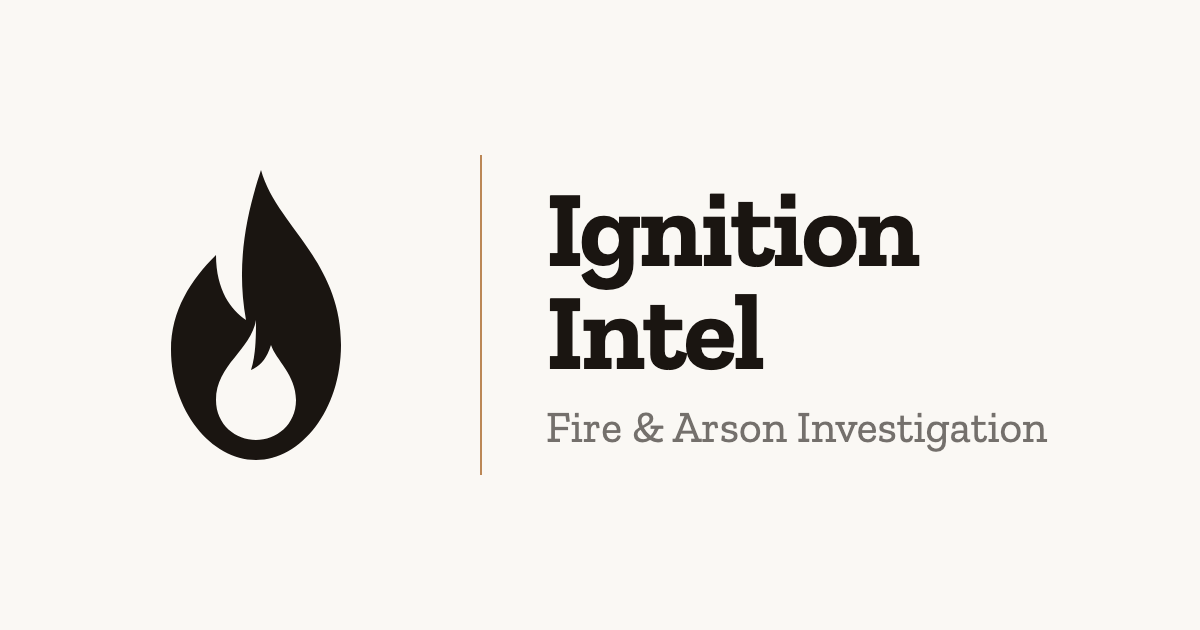
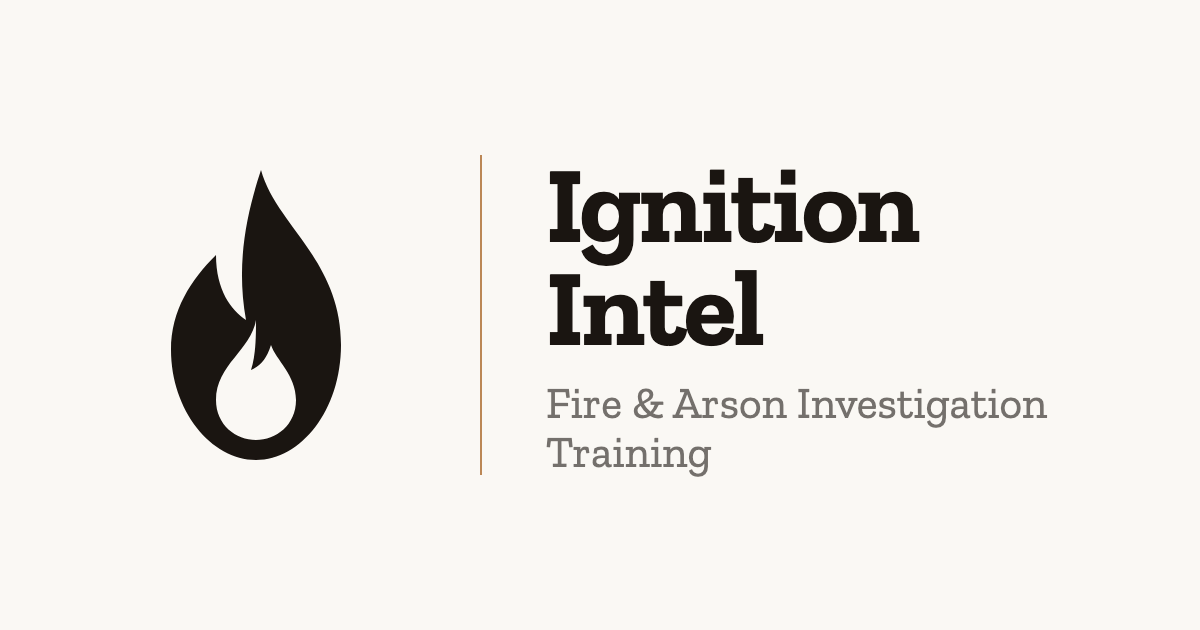
Make some tweaks to the business title

Changed region(s): [[0.4317, 0.2714, 0.8942, 0.754]]

diff --git a/site/src/util/SeoGraph.service.ts b/site/src/util/SeoGraph.service.ts
@@ -6,17 +6,17 @@ import {
   type GraphEntity,
   makeIds
 } from '@jdevalk/seo-graph-core';
-import type { ProfessionalService } from 'schema-dts';
+import type { EducationalOrganization } from 'schema-dts';
 import { globalConstants } from './globalConstants';
 import siteContentService from './SiteContent.service';
 
 class SeoGraphService {
-  /** Stable slug for the ProfessionalService `@id` URI. */
+  /** Stable slug for the EducationalOrganization `@id` URI. */
   static readonly #ORGANIZATION_SLUG = 'organization';
 
   /**
    * Builds the JSON-LD `@graph` for the current page: a sitewide `WebSite`
-   * and `ProfessionalService`, plus a per-page `WebPage` linked to both. The result
+   * and `EducationalOrganization`, plus a per-page `WebPage` linked to both. The result
    * is consumed by `<Seo graph={...}>` from `@jdevalk/astro-seo-graph`.
    *
    * @param args - Site, page, and image inputs used to populate the entities
@@ -24,7 +24,7 @@ class SeoGraphService {
    * @param args.pageUrl - Absolute URL of the current page
    * @param args.pageName - Page name used for the WebPage entity
    * @param args.description - Page description, reused on the WebPage
-   * @param args.ogImage - Absolute URL of the share image for the ProfessionalService
+   * @param args.ogImage - Absolute URL of the share image for the EducationalOrganization
    */
   async buildGraph(args: {
     site: URL;
@@ -66,8 +66,8 @@ class SeoGraphService {
       ids
     );
 
-    const organization = buildPiece<ProfessionalService>({
-      '@type': 'ProfessionalService',
+    const organization = buildPiece<EducationalOrganization>({
+      '@type': 'EducationalOrganization',
       '@id': organizationId,
       name: globalConstants.siteName,
       description,

diff --git a/site/src/util/globalConstants.ts b/site/src/util/globalConstants.ts
@@ -25,16 +25,17 @@ class GlobalConstants {
   readonly webManifestShortName = 'Ignition Intel';
 
   /** One-line summary used by the web manifest. */
-  readonly webManifestDescription = 'Fire and arson investigation by Nicole Brewer.';
+  readonly webManifestDescription = 'Fire and arson investigation training by Nicole Brewer.';
 
-  /** Owner's name. Used as the JSON-LD `ProfessionalService.founder`. */
+  /** Owner's name. Used as the JSON-LD `EducationalOrganization.founder`. */
   readonly ownerName = 'Nicole Brewer';
 
-  /** Areas of expertise (schema.org `ProfessionalService.knowsAbout`). */
+  /** Areas of expertise (schema.org `EducationalOrganization.knowsAbout`). */
   readonly knowsAbout: readonly string[] = [
     'Fire investigation',
     'Arson investigation',
-    'Fire origin and cause determination'
+    'Fire origin and cause determination',
+    'Fire investigation training'
   ];
 
   /**

diff --git a/site/astro.config.ts b/site/astro.config.ts
@@ -30,10 +30,10 @@ export default defineConfig({
       lastmod: new Date(),
       serialize: (item) => {
         const pathname = new URL(item.url).pathname;
-        // Home is the primary entry; services is the second most important page.
+        // Home is the primary entry; courses is the second most important page.
         // The rest stay at the default so the spread carries signal.
         if (pathname === '/') return { ...item, priority: 1.0 };
-        if (pathname === '/services') return { ...item, priority: 0.75 };
+        if (pathname === '/courses') return { ...item, priority: 0.75 };
         return item;
       }
     }),

diff --git a/workers/contact/src/index.integration.test.ts b/workers/contact/src/index.integration.test.ts
@@ -49,7 +49,7 @@ const nextIp = createTestIpGenerator();
 const validBody = {
   name: 'Alice Example',
   email: 'alice@example.com',
-  message: 'Hello, I need a fire investigated at a commercial property.',
+  message: 'Hello, I would like more information about your fire investigation course.',
   website: '',
   turnstileToken: 'fake-token'
 };

diff --git a/scripts/og-image/index.html b/scripts/og-image/index.html
@@ -108,7 +108,7 @@
       <div class="divider"></div>
       <div class="text">
         <h1 class="wordmark">Ignition<br />Intel</h1>
-        <p class="location">Fire &amp; Arson Investigation</p>
+        <p class="location">Fire &amp; Arson Investigation Training</p>
       </div>
     </div>
   </body>

diff --git a/docs/launch-checklist.md b/docs/launch-checklist.md
@@ -37,7 +37,7 @@
 - [ ] Colors and fonts in `site/src/styles/tokens.css` and `site/astro.config.ts`
 - [ ] Sync `webManifestThemeColor` / `webManifestBackgroundColor` in `globalConstants.ts` with the new tokens
 - [ ] Fill in "Brand direction" in `.claude/skills/site-design/SKILL.md`
-- [ ] Replace placeholder copy: page `description`s in `site/src/pages/*.astro`, home section, services page
+- [ ] Replace placeholder copy: page `description`s in `site/src/pages/*.astro`, home section, courses page
 - [ ] Seed content in `site/src/content/` (or via the CMS)
 
 ### After launch
@@ -53,7 +53,7 @@
   - No phone number. Just email.
 - [x] Service area or location to list?
   - No address to be shown
-- [ ] What services should the Services page list?
+- [ ] What courses should the Courses page list?
   - The services are basically going to be fire investigation training.
 - [ ] Bio, background, and credentials for the About page
   - CV is going to be sent over

diff --git a/.claude/CLAUDE.md b/.claude/CLAUDE.md
@@ -1,6 +1,6 @@
 # Repo-specific instructions for AI coding agents
 
-This repository is the website for Ignition Intel, a fire and arson investigation business run by Nicole Brewer. It is an Astro 5 + Svelte 5 islands site, styled with Tailwind v4, deployed to Cloudflare Pages (static output). Cloudflare Workers live in `/workers/*` and handle the dynamic concerns (contact form, CMS auth). Managed with pnpm workspaces.
+This repository is the website for Ignition Intel, a fire and arson investigation training business run by Nicole Brewer. It is an Astro 5 + Svelte 5 islands site, styled with Tailwind v4, deployed to Cloudflare Pages (static output). Cloudflare Workers live in `/workers/*` and handle the dynamic concerns (contact form, CMS auth). Managed with pnpm workspaces.
 
 ## Quick Commands
 

diff --git a/.claude/skills/site-design/SKILL.md b/.claude/skills/site-design/SKILL.md
@@ -4,7 +4,7 @@ description: Act as the in-house designer for Ignition Intel. Use when proposing
 argument-hint: '<what to design or critique>'
 ---
 
-You are the in-house designer for **Ignition Intel**, a fire and arson investigation business run by Nicole Brewer. Your job is to make design decisions for the site (typography, layout, color, motion, imagery, copy hierarchy) and then execute them within the repo's technical conventions.
+You are the in-house designer for **Ignition Intel**, a fire and arson investigation training business run by Nicole Brewer. Your job is to make design decisions for the site (typography, layout, color, motion, imagery, copy hierarchy) and then execute them within the repo's technical conventions.
 
 ## Brand direction
 

diff --git a/site/src/content/about.md b/site/src/content/about.md
@@ -9,4 +9,4 @@ highlights:
     body: A short supporting sentence for the third highlight.
 ---
 
-Ignition Intel is a fire and arson investigation business run by Nicole Brewer. This is placeholder text for the About page; replace it from the CMS.
+Ignition Intel offers fire and arson investigation courses and training, taught by Nicole Brewer. This is placeholder text for the About page; replace it from the CMS.
